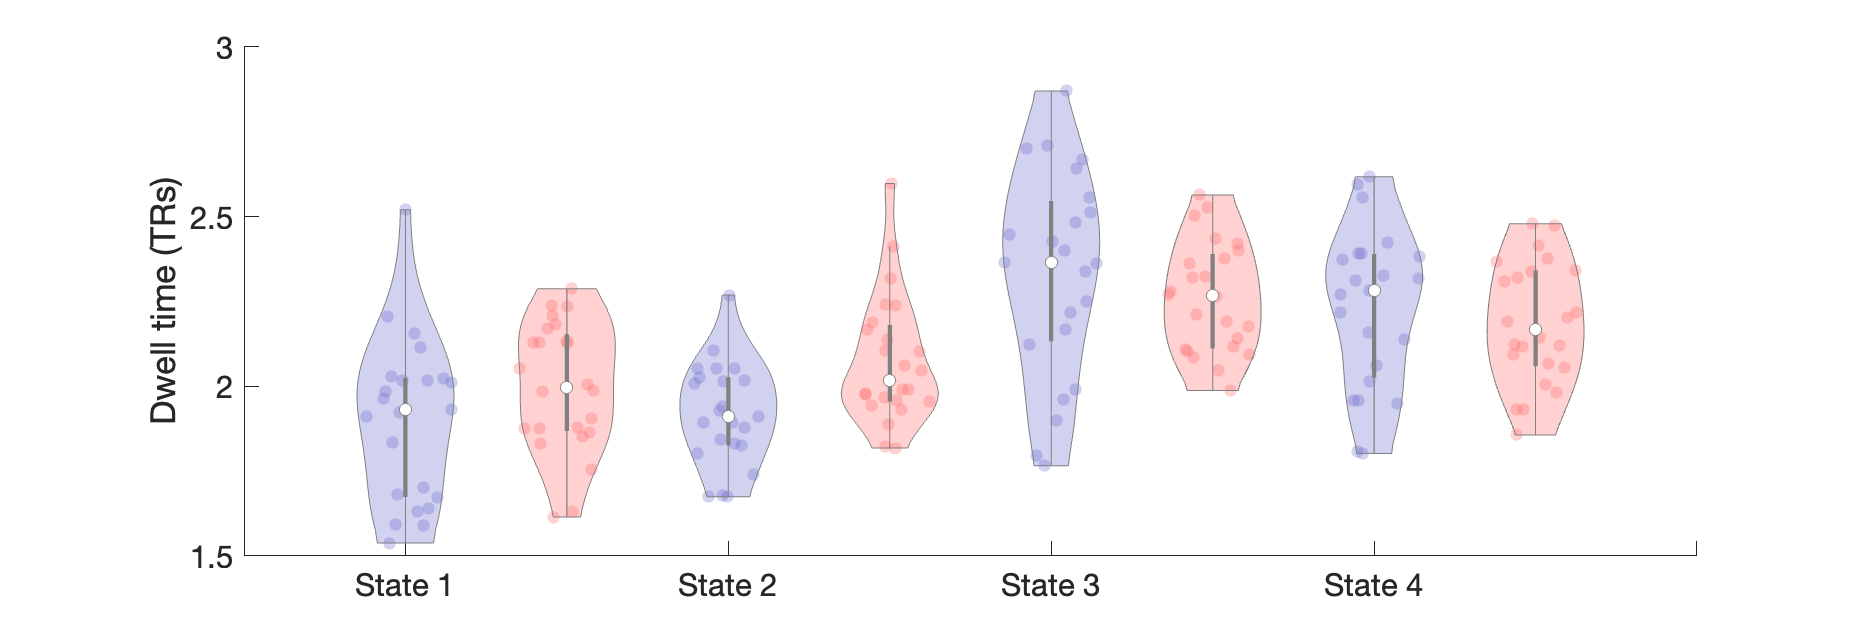
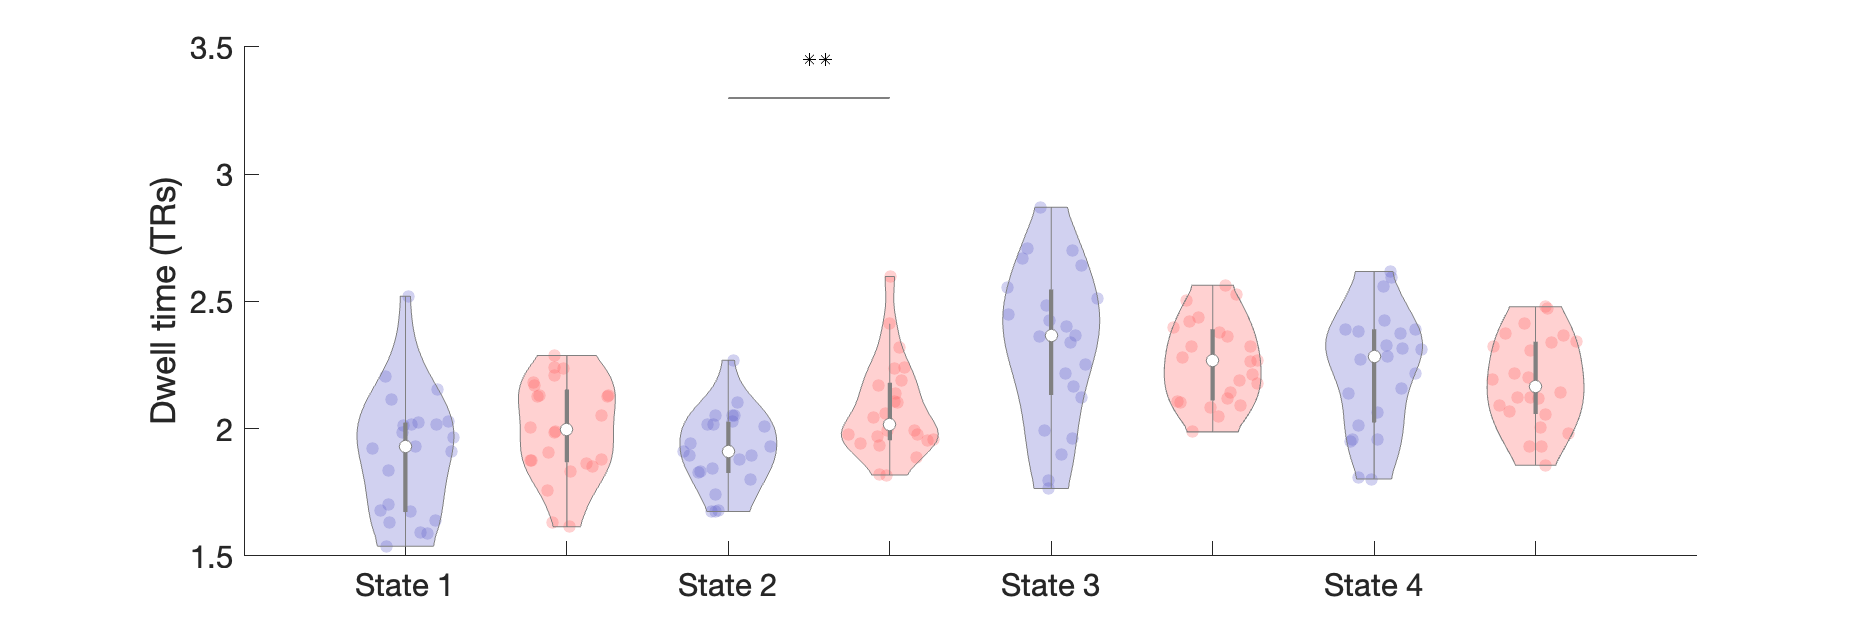
violinplots with asterisks

diff --git a/code/plot_FO_DT_AR_Timeavg_stroke_vs_control.m b/code/plot_FO_DT_AR_Timeavg_stroke_vs_control.m
@@ -28,11 +28,10 @@ violin(5).ViolinColor=[0.4 0.4 0.8]
 violin(6).ViolinColor=[1 0.4 0.4]
 violin(7).ViolinColor=[0.4 0.4 0.8]
 violin(8).ViolinColor=[1 0.4 0.4]
+xticks(1:8)
 
-xticks(1:2:12)
-xticklabels({'State 1','State 2','State 3', 'State 4'})
-set(gca, 'FontSize', 15)
-
+yt = get(gca, 'YTick');
+xt = get(gca, 'XTick');
 
 [h, p(1), ci, stats]=ttest2(mean(stroke_FO1, 2, 'omitnan'),mean(control_FO1, 2))
 [h, p(2), ci, stats]=ttest2(mean(stroke_FO2,  2, 'omitnan'),mean(control_FO2, 2))
@@ -40,6 +39,31 @@ set(gca, 'FontSize', 15)
 [h, p(4), ci, stats]=ttest2(mean(stroke_FO4,  2, 'omitnan'),mean(control_FO4, 2))
 
 [h, ~, ~, p_adj] = fdr_bh(p, 0.05,'pdep')
+old=0
+for i=1:4
+    xtickindex=i+old
+    old=i;
+    signif=p(i)<0.05
+    if signif
+        plot(xt([xtickindex xtickindex+1]), [1 1]*max(yt)*1.1, '-k',  mean(xt([xtickindex xtickindex+1])), max(yt)*1.15, '*k')
+    end
+end
+
+old=0
+
+for i=1:4
+    xtickindex=i+old
+    old=i;
+    signif=p_adj(i)<0.05;
+    if signif
+        plot(xt([xtickindex xtickindex+1]), [1 1]*max(yt)*1.1, '-k',  mean(xt([xtickindex xtickindex+1])), max(yt)*1.15, '*k');
+        plot(xt([xtickindex xtickindex+1]), [1 1]*max(yt)*1.1, '-k',  mean(xt([xtickindex xtickindex+1]))+0.1, max(yt)*1.15, '*k');
+    end
+end
+xticklabels({'State 1','    ','State 2','     ','State 3', '','State 4'})
+set(gca, 'FontSize', 15)
+
+
 
 save(strcat(resdir, 'p_adjusted_Timeavg_FO_stroke_vs_control.mat', 'p_adj'))
 save(strcat(resdir, 'p_unc_Timeavg_FO_stroke_vs_control.mat', 'p'))
@@ -69,11 +93,13 @@ violin(5).ViolinColor=[0.4 0.4 0.8]
 violin(6).ViolinColor=[1 0.4 0.4]
 violin(7).ViolinColor=[0.4 0.4 0.8]
 violin(8).ViolinColor=[1 0.4 0.4]
-xticks(1:2:12)
-xticklabels({'State 1','State 2','State 3', 'State 4'})
+xticklabels({'State 1','    ','State 2','     ','State 3', '','State 4'})
 set(gca, 'FontSize', 15)
-ylabel('Dwell time (TRs)')
+xticks(1:8)
 
+ylabel('Dwell time (TRs)')
+yt = get(gca, 'YTick');
+xt = get(gca, 'XTick');
 [h, p(3), ci, stats]=ttest2(mean(dwell_avg_stroke(:,:,3),2, 'omitnan'),mean(dwell_avg_control(:,:,3),2))
 [h, p(4), ci, stats]=ttest2(mean(dwell_avg_stroke(:,:,4),2, 'omitnan'),mean(dwell_avg_control(:,:,4),2))
 [h, p(1), ci, stats]=ttest2(mean(dwell_avg_stroke(:,:,1),2, 'omitnan'),mean(dwell_avg_control(:,:,1), 2))
@@ -81,10 +107,33 @@ ylabel('Dwell time (TRs)')
 
 [h, ~, ~, p_adj] = fdr_bh(p, 0.05,'pdep')
 
+old=0
+for i=1:4
+    xtickindex=i+old
+    old=i;
+    signif=p(i)<0.05
+    if signif
+        plot(xt([xtickindex xtickindex+1]), [1 1]*max(yt)*1.1, '-k',  mean(xt([xtickindex xtickindex+1])), max(yt)*1.15, '*k')
+    end
+end
+
+old=0
+
+for i=1:4
+    xtickindex=i+old
+    old=i;
+    signif=p_adj(i)<0.05;
+    if signif
+        plot(xt([xtickindex xtickindex+1]), [1 1]*max(yt)*1.1, '-k',  mean(xt([xtickindex xtickindex+1])), max(yt)*1.15, '*k');
+        plot(xt([xtickindex xtickindex+1]), [1 1]*max(yt)*1.1, '-k',  mean(xt([xtickindex xtickindex+1]))+0.1, max(yt)*1.15, '*k');
+    end
+end
+
+
 
 save(strcat(resdir, 'p_adjusted_Timeavg_DT_stroke_vs_control.mat'), 'p_adj')
 save(strcat(resdir, 'p_unc_Timeavg_DR_stroke_vs_control.mat'), 'p')
-saveas(gcf,strcat(figdir, 'DT_Timeavg_stroke_vs_control.png')
+saveas(gcf,strcat(figdir, 'DT_Timeavg_stroke_vs_control.png'))
 
 %% Appearance rate
 close all;
@@ -111,16 +160,40 @@ violin(6).ViolinColor=[1 0.4 0.4]
 violin(7).ViolinColor=[0.4 0.4 0.8]
 violin(8).ViolinColor=[1 0.4 0.4]
 
-xticks(1:2:12)
-xticklabels({'State 1','State 2','State 3', 'State 4'})
+xticks(1:8)
+xticklabels({'State 1','    ','State 2','     ','State 3', '','State 4'})
 set(gca, 'FontSize', 15)
 clear p
 [h, p(1), ci, stats]=ttest2(mean(stroke_appearance1,2, 'omitnan'),mean(control_appearance1,2))
 [h, p(2), ci, stats]=ttest2(mean(stroke_appearance2,2, 'omitnan'),mean(control_appearance2,2))
 [h, p(3), ci, stats]=ttest2(mean(stroke_appearance3,2, 'omitnan'),mean(control_appearance3,2))
 [h, p(4), ci, stats]=ttest2(mean(stroke_appearance4, 2,'omitnan'),mean(control_appearance4,2))
+yt = get(gca, 'YTick');
+xt = get(gca, 'XTick');
 
 [h, ~, ~, p_adj] = fdr_bh(p, 0.05,'pdep')
+old=0
+for i=1:4
+    xtickindex=i+old
+    old=i;
+    signif=p(i)<0.05
+    if signif
+        plot(xt([xtickindex xtickindex+1]), [1 1]*max(yt)*1.1, '-k',  mean(xt([xtickindex xtickindex+1])), max(yt)*1.15, '*k')
+    end
+end
+
+old=0
+
+for i=1:4
+    xtickindex=i+old
+    old=i;
+    signif=p_adj(i)<0.05;
+    if signif
+        plot(xt([xtickindex xtickindex+1]), [1 1]*max(yt)*1.1, '-k',  mean(xt([xtickindex xtickindex+1])), max(yt)*1.15, '*k');
+        plot(xt([xtickindex xtickindex+1]), [1 1]*max(yt)*1.1, '-k',  mean(xt([xtickindex xtickindex+1]))+0.1, max(yt)*1.15, '*k');
+    end
+end
+
 
 save(strcat(resdir, 'p_adjusted_Timeavg_AR_stroke_vs_control.mat'), 'p_adj')
 save(strcat(resdir, 'p_unc_Timeavg_R_stroke_vs_control.mat'), 'p')
